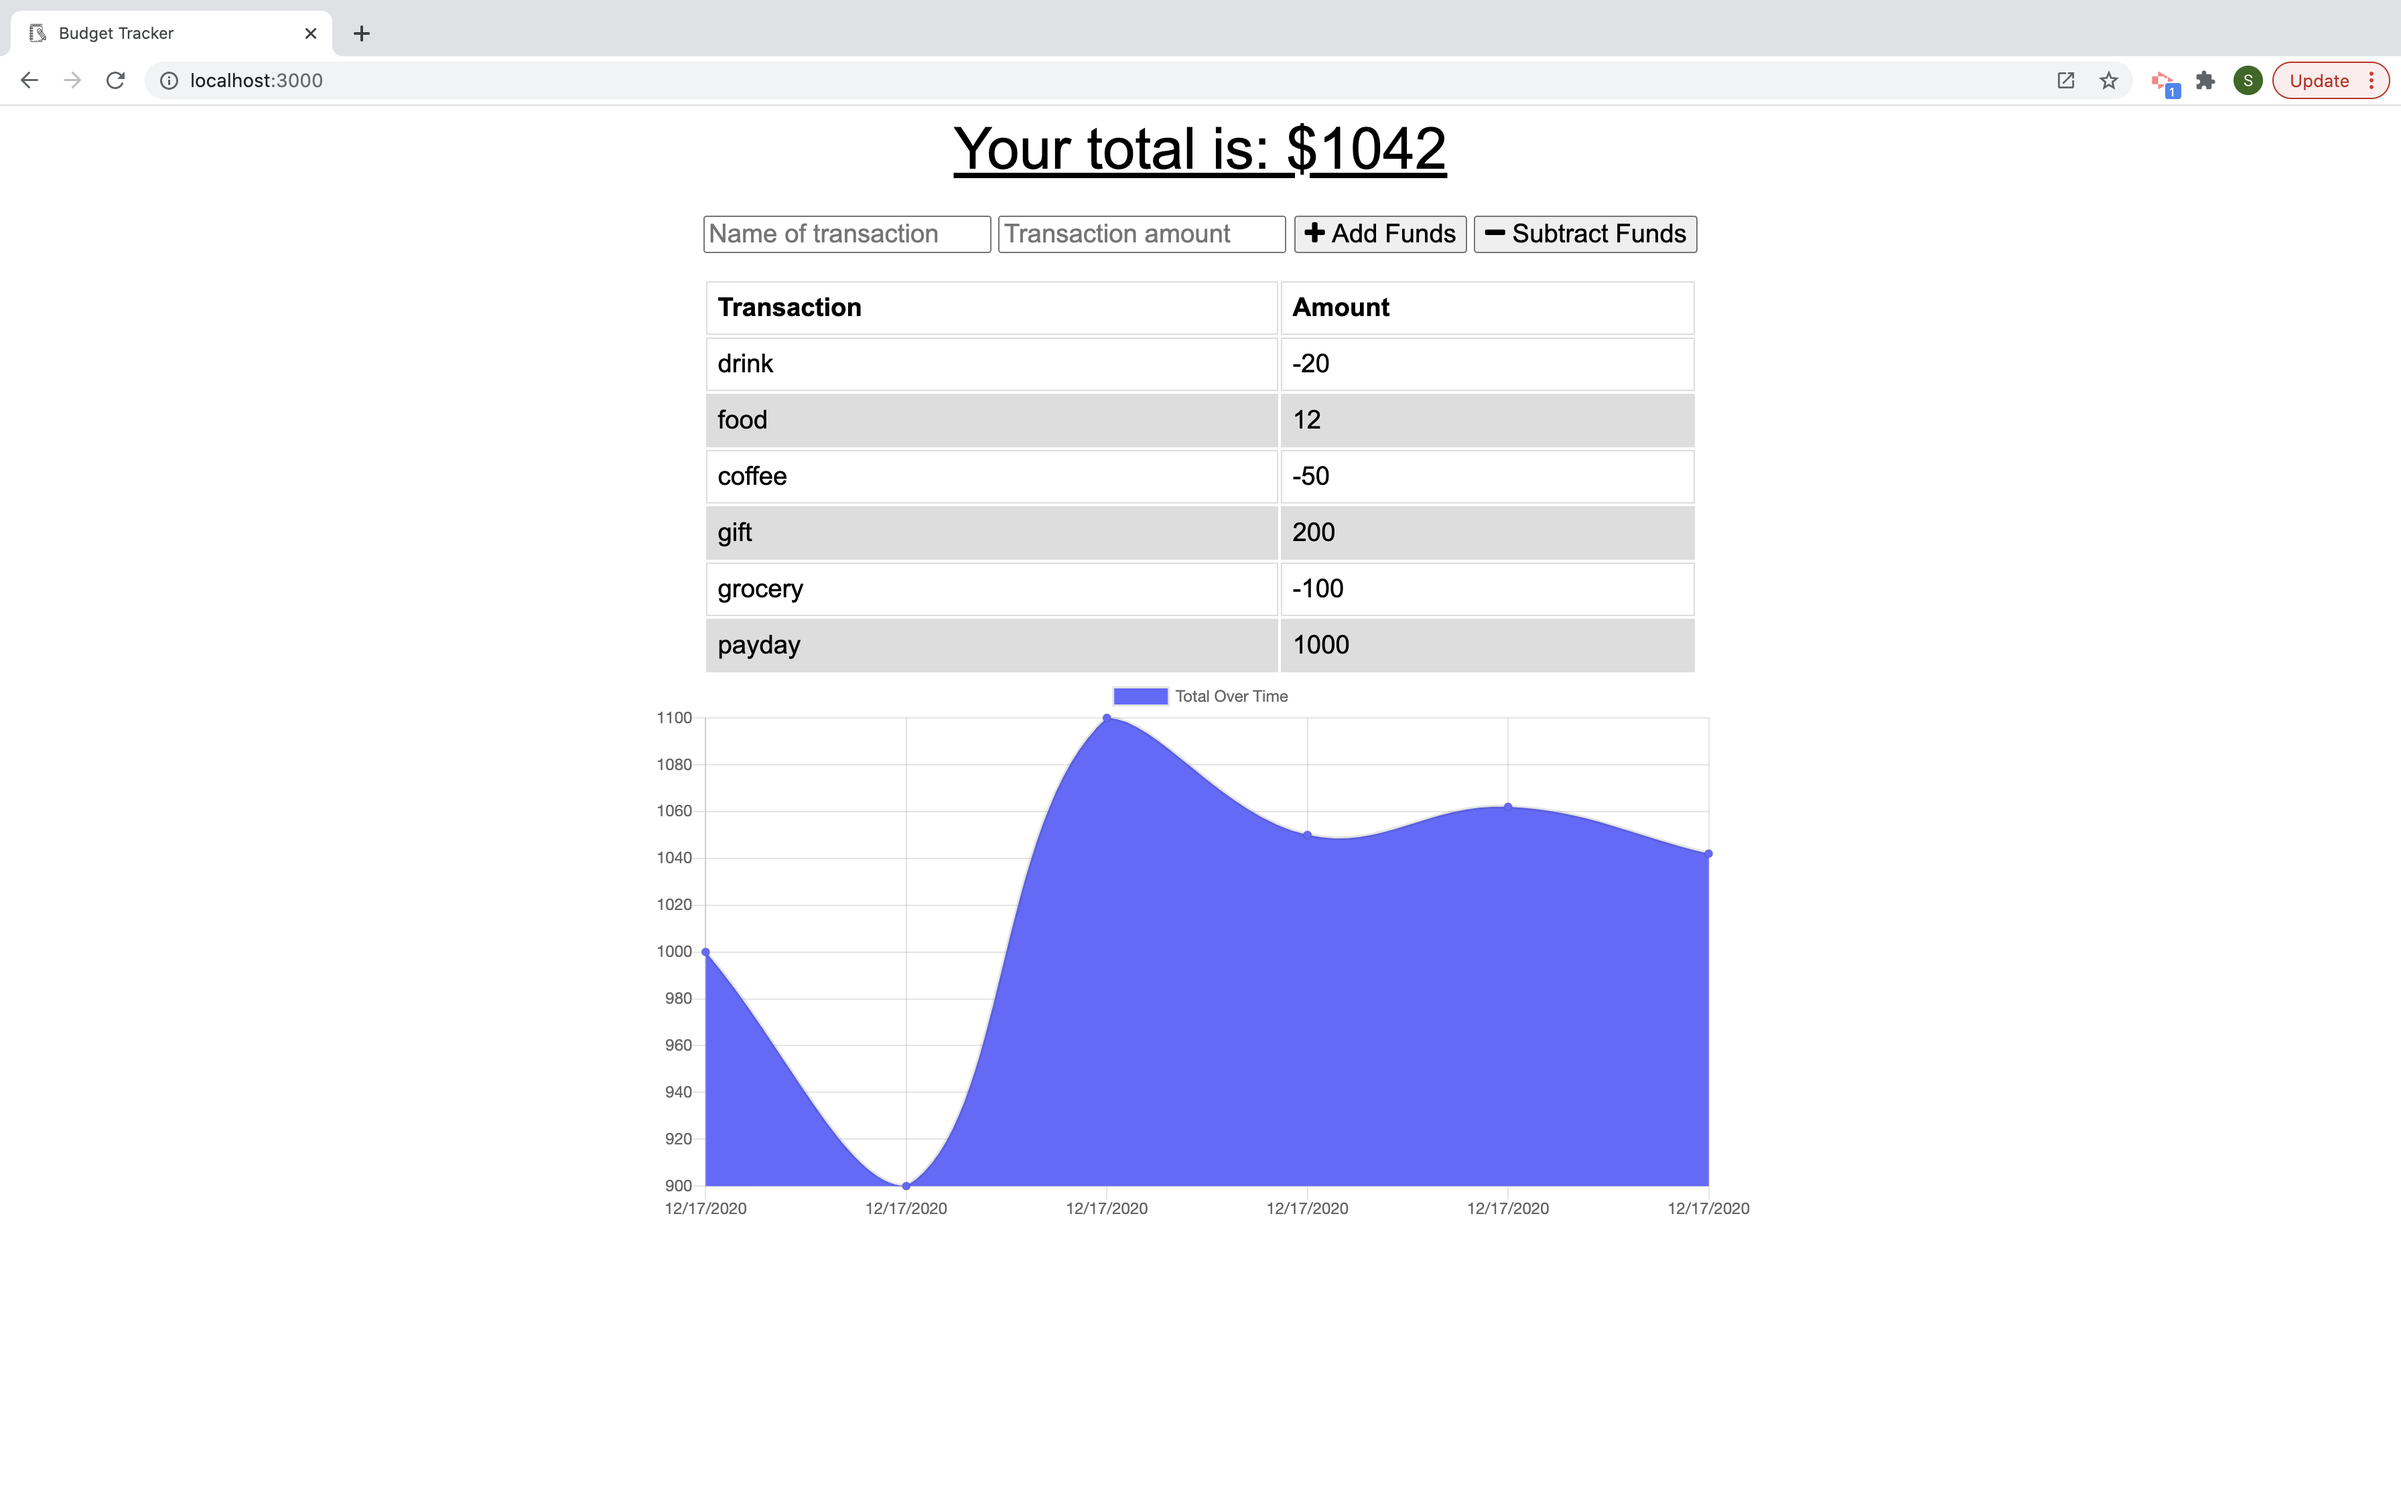
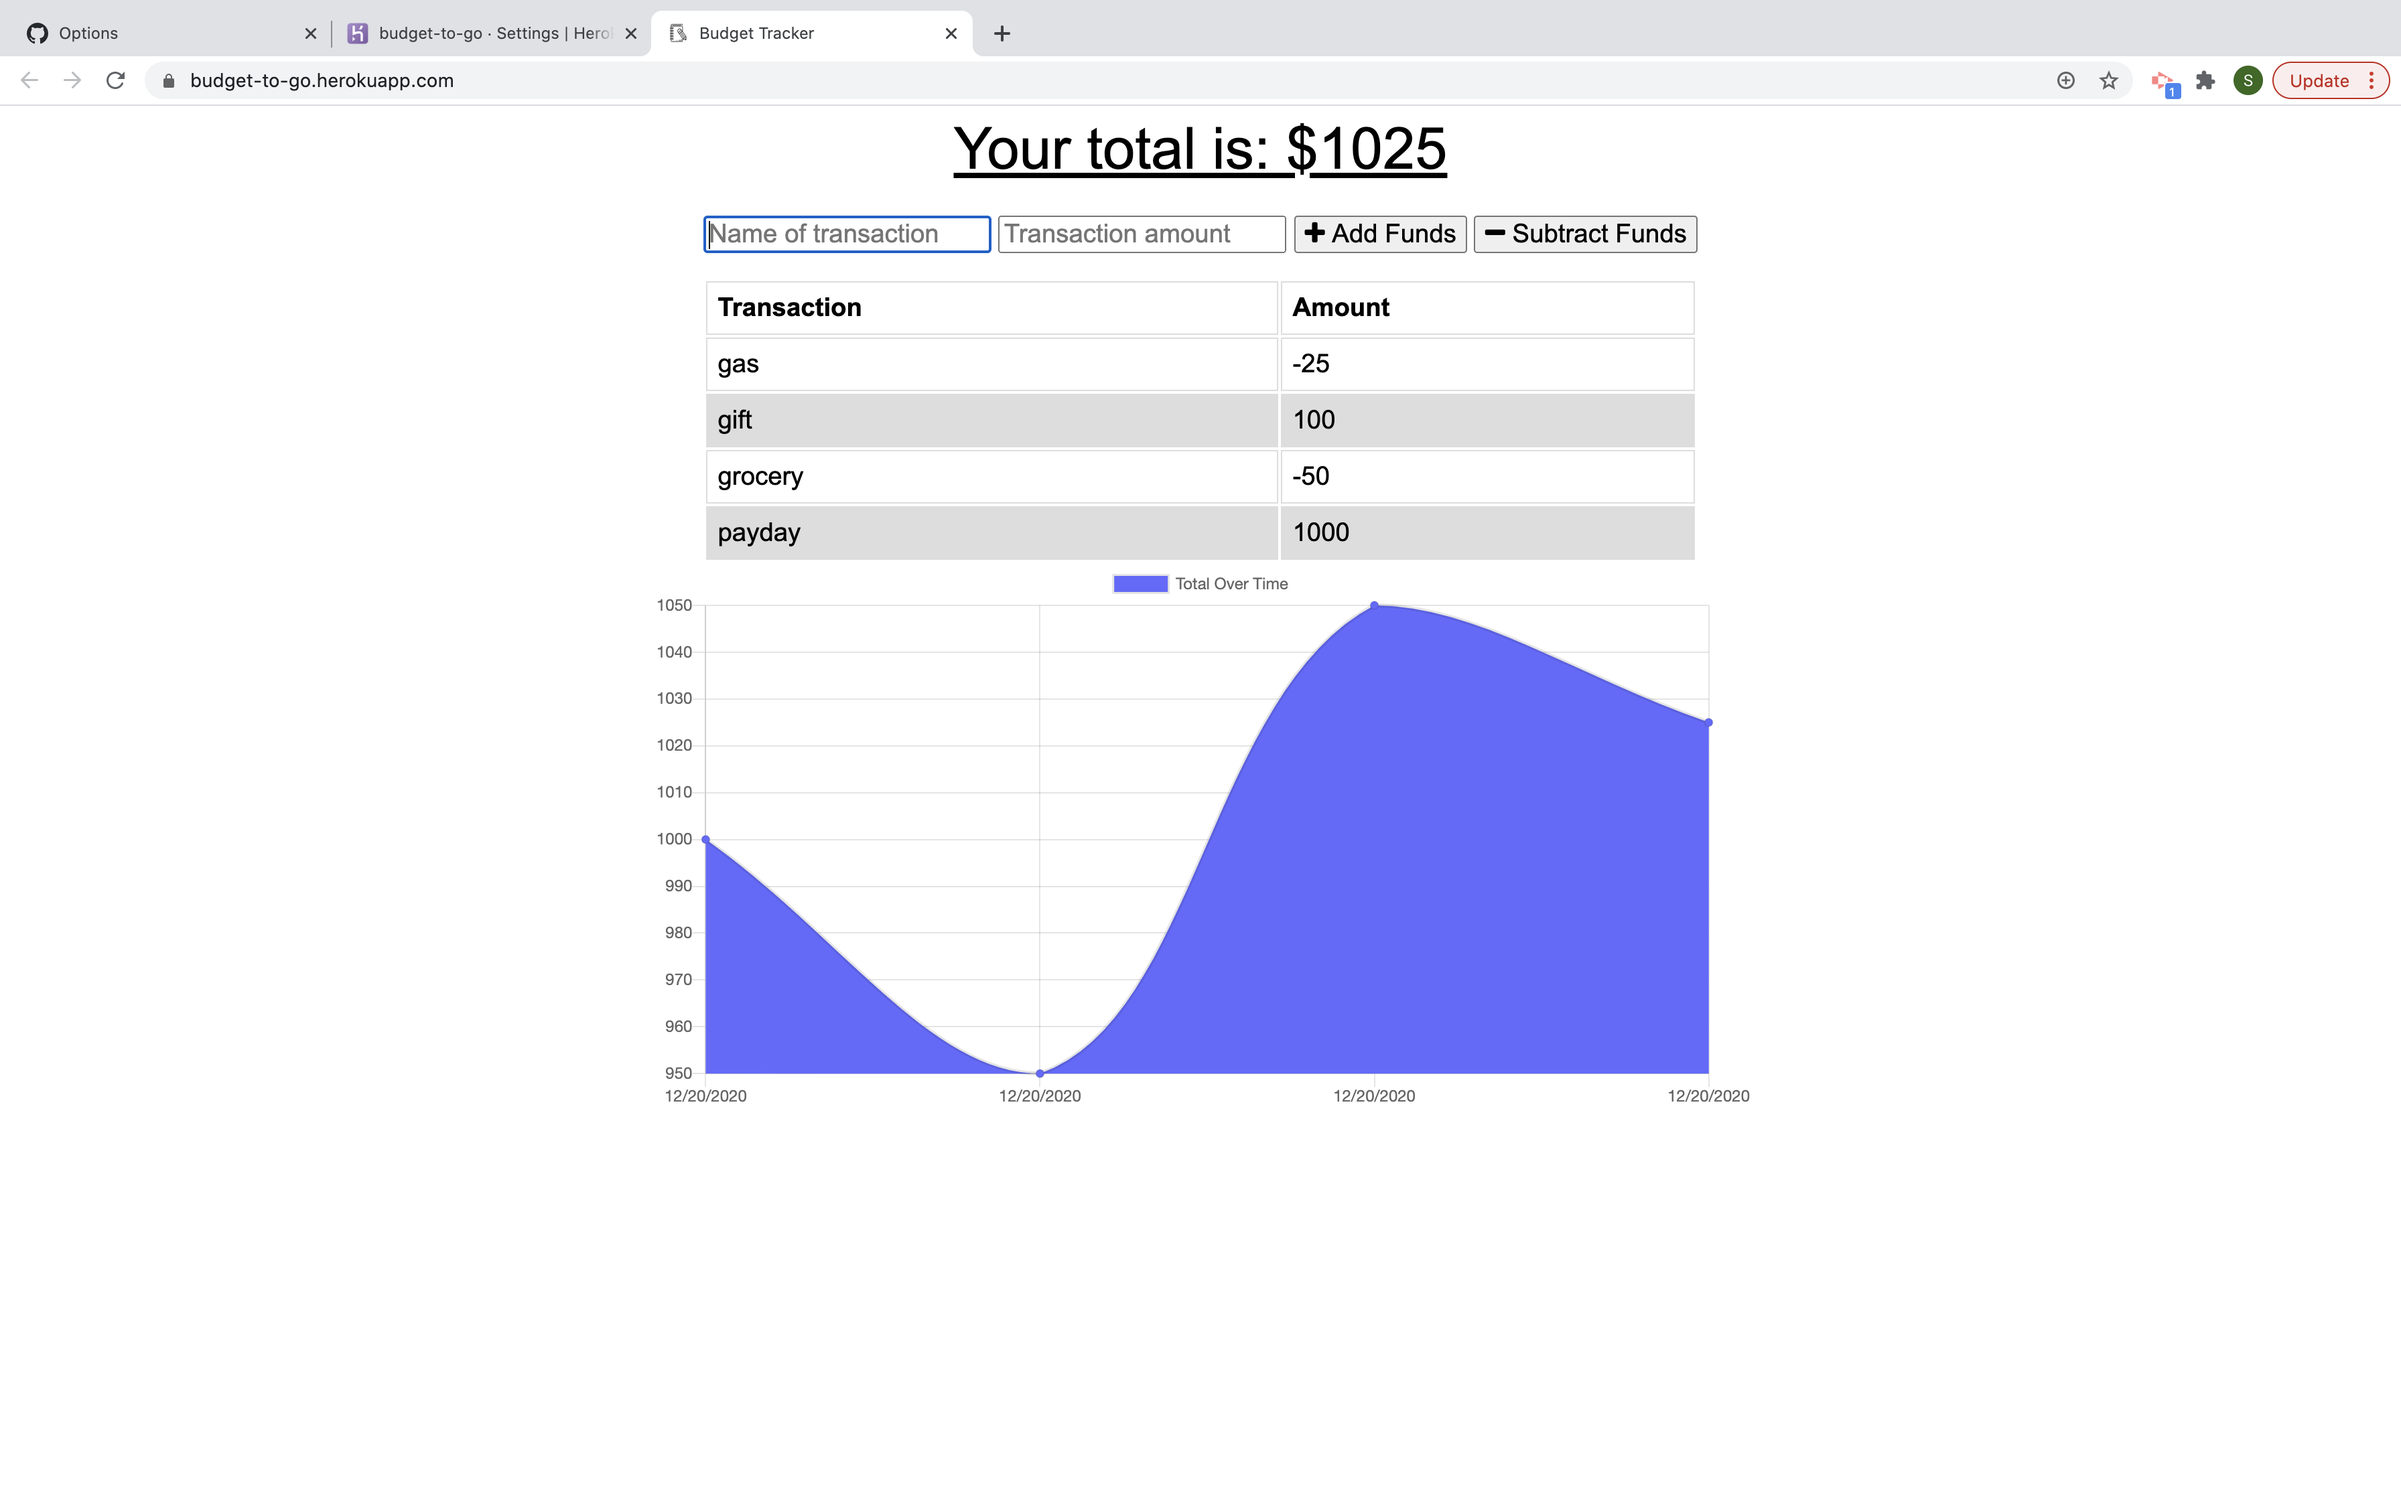
updating readme

diff --git a/README.md b/README.md
@@ -27,12 +27,12 @@ AS AN avid traveller I WANT to be able to track my withdrawals and deposits with
 
 ## Deployed Application
 https://budget-to-go.herokuapp.com/
-<img width="1792" alt="budget-to-go-image" src="https://user-images.githubusercontent.com/68358265/102689580-32202280-41cd-11eb-858f-ac317b1948f8.png">
+<img width="1792" alt="Screen Shot 2020-12-20 at 10 10 50 AM" src="https://user-images.githubusercontent.com/68358265/102716740-c3fe5d00-42ab-11eb-9ce4-33c717afa476.png">
 
   
   ## Credits
 This application uses Node dependencies.
-This application is deployed on Heroku with MondoDB Atlas.
+This application is deployed using Heroku and MondoDB Atlas.
   
   ## License
   
